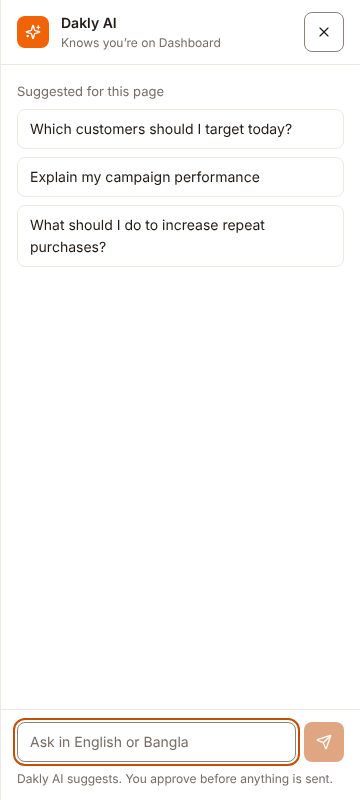
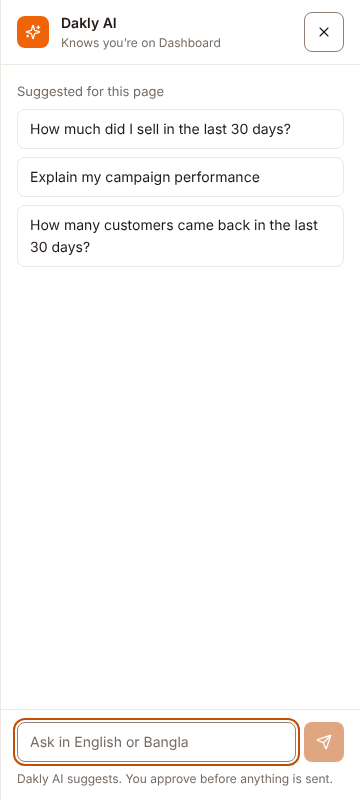
fix(home-4): suggest only questions the report tools answer, for roles that can view them

diff --git a/apps/web/src/features/assistant/components/ask-dakly-panel.tsx b/apps/web/src/features/assistant/components/ask-dakly-panel.tsx
@@ -8,6 +8,7 @@ import { ApiError } from '@dakly/ui/api-client';
 import { Button } from '@dakly/ui/button';
 
 import { useAskDakly } from '../api/ask-dakly';
+import { useSessionContext } from '@/lib/session-context';
 
 export type Turn =
   { role: 'user'; text: string } | { role: 'assistant'; text: string; sources: string[] };
@@ -18,11 +19,12 @@ type AskDaklyPanelProps = {
   onClose: () => void;
 };
 
+// Each one is answered by a report tool, and shows only when the member's role can view that report.
 const suggestions = [
-  'Which customers should I target today?',
-  'Explain my campaign performance',
-  'What should I do to increase repeat purchases?',
-];
+  { text: 'How much did I sell in the last 30 days?', canAsk: 'canViewOrders' },
+  { text: 'Explain my campaign performance', canAsk: 'canViewAnalytics' },
+  { text: 'How many customers came back in the last 30 days?', canAsk: 'canViewCustomers' },
+] as const;
 const pageNames: Record<string, string> = {
   dashboard: 'Dashboard',
   analytics: 'Analytics',
@@ -200,18 +202,21 @@ function Composer({ question, onQuestion, onSend, isPending, creditsLeft }: Comp
 }
 
 function Suggestions({ onPick, disabled }: { onPick: (text: string) => void; disabled: boolean }) {
+  const { data } = useSessionContext();
+  const shown = suggestions.filter(({ canAsk }) => data?.currentStore?.[canAsk]);
+  if (!shown.length) return null;
   return (
     <section aria-label="Suggested for this page" className="space-y-2">
       <h3 className="text-sm text-text-muted">Suggested for this page</h3>
-      {suggestions.map((suggestion) => (
+      {shown.map(({ text }) => (
         <button
-          key={suggestion}
+          key={text}
           type="button"
           disabled={disabled}
-          onClick={() => onPick(suggestion)}
+          onClick={() => onPick(text)}
           className="block w-full rounded-md border border-border bg-surface px-3 py-2 text-left text-base hover:bg-surface-muted focus-visible:outline-2 focus-visible:outline-offset-2 focus-visible:outline-focus"
         >
-          {suggestion}
+          {text}
         </button>
       ))}
     </section>

diff --git a/apps/web/src/features/assistant/components/ask-dakly.spec.tsx b/apps/web/src/features/assistant/components/ask-dakly.spec.tsx
@@ -35,9 +35,18 @@ function serve(reply: (body: unknown) => Response) {
   return bodies;
 }
 
-function show() {
+function show(
+  can: Record<string, boolean> = {
+    canViewOrders: true,
+    canViewAnalytics: true,
+    canViewCustomers: true,
+  },
+) {
   const client = new QueryClient({ defaultOptions: { queries: { retry: false } } });
-  client.setQueryData(sessionContextKey, { contextTag: 'verified', currentStore: { id: 'shop' } });
+  client.setQueryData(sessionContextKey, {
+    contextTag: 'verified',
+    currentStore: { id: 'shop', ...can },
+  });
   render(
     <QueryClientProvider client={client}>
       <AskDaklyButton />
@@ -67,10 +76,32 @@ describe('Ask Dakly AI panel', () => {
     show();
     const panel = screen.getByRole('complementary', { name: 'Dakly AI' });
     expect(within(panel).getByText('Knows you’re on Dashboard')).toBeTruthy();
-    expect(within(panel).getAllByRole('button', { name: /\?$|performance$/ })).toHaveLength(3);
+    expect(
+      within(panel)
+        .getAllByRole('button', { name: /last 30 days\?$|performance$/ })
+        .map((button) => button.textContent),
+    ).toEqual([
+      'How much did I sell in the last 30 days?',
+      'Explain my campaign performance',
+      'How many customers came back in the last 30 days?',
+    ]);
     expect(
       within(panel).getByText('Dakly AI suggests. You approve before anything is sent.'),
     ).toBeTruthy();
+  });
+
+  it('shows only the suggestions for reports the role can view', () => {
+    show({ canViewOrders: true, canViewAnalytics: false, canViewCustomers: false });
+    expect(
+      screen
+        .getAllByRole('button', { name: /last 30 days\?$|performance$/ })
+        .map((b) => b.textContent),
+    ).toEqual(['How much did I sell in the last 30 days?']);
+  });
+
+  it('shows no suggestion block when the role can view no report', () => {
+    show({ canViewOrders: false, canViewAnalytics: false, canViewCustomers: false });
+    expect(screen.queryByText('Suggested for this page')).toBeNull();
   });
 
   it('asks a suggestion and shows the answer, its source and the credits left', async () => {

diff --git a/docs/features/10-dashboard-and-notifications.md b/docs/features/10-dashboard-and-notifications.md
@@ -268,9 +268,9 @@ How it runs (HOME-4 part 1):
 Web (HOME-4 part 2):
 
 1. The dark Ask Dakly AI button in the top bar (icon only on a phone) opens a panel on the right edge, full width on a phone. The panel is open when the `ask` search parameter is `open`, so a link can open it.
-2. The panel shows the page it is on when it knows the page, three suggestions, the conversation, an input and the line "Dakly AI suggests. You approve before anything is sent." Each answer shows its sources under the text ("From Orders, last 30 days") and the credits left appear under the input after the first answer. The conversation lasts until the shop is switched or the page is reloaded; saved history is HOME-6.
+2. The panel shows the page it is on when it knows the page, up to three suggestions (sales, campaign performance and customers who came back, each shown only when the role can view that report), the conversation, an input and the line "Dakly AI suggests. You approve before anything is sent." Each answer shows its sources under the text ("From Orders, last 30 days") and the credits left appear under the input after the first answer. The conversation lasts until the shop is switched or the page is reloaded; saved history is HOME-6.
 3. A busy or paused AI shows "Dakly AI is busy. Try again in a minute." and puts the question back in the input. No credits shows that they are used up for the plan period.
-4. Waits on other work: Full view and the Ask Dakly AI page (HOME-6), the Ask box on the Dashboard, suggestions that differ per page, the top-up button (no billing screen yet), feedback buttons, and the action buttons under an answer.
+4. Waits on other work: Full view and the Ask Dakly AI page (HOME-6), the Ask box on the Dashboard, suggestions that differ per page, a customer-targeting suggestion (no tool covers it), the top-up button (no billing screen yet), feedback buttons, and the action buttons under an answer.
 
 ### Rules
 
